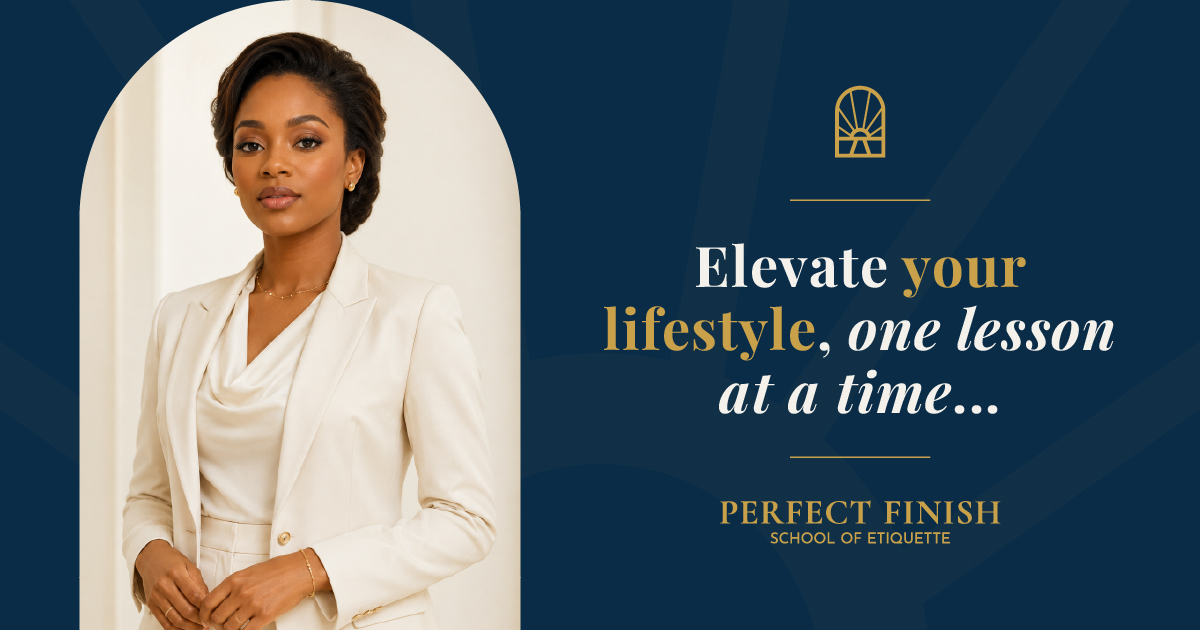
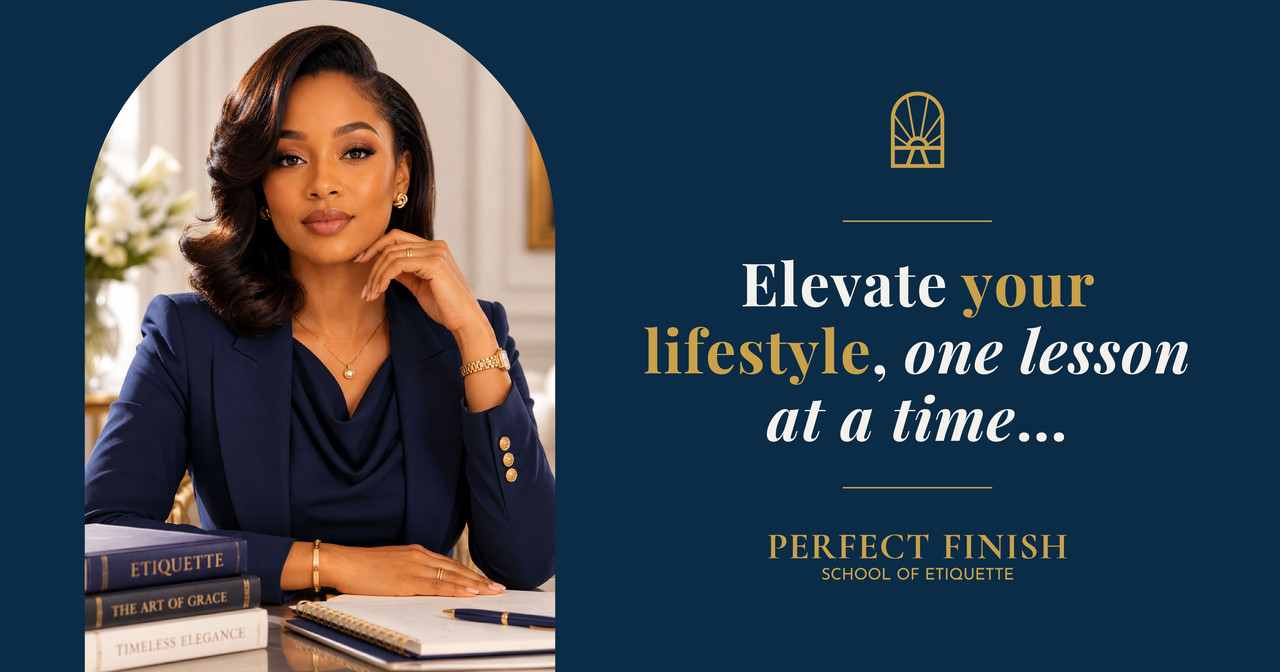
Update landing page to show only Web Developer text and fix text overflow on scroll

diff --git a/public/index.html b/public/index.html
@@ -12,8 +12,8 @@
   <meta property="og:title" content="Perfect Finish | School of Etiquette">
   <meta property="og:description" content="Elevate your lifestyle, one lesson at a time. Perfect Finish School of Etiquette helps individuals cultivate unshakeable confidence, modern elegance, and social intelligence.">
   <meta property="og:image" content="https://perfect-finish-website.vercel.app/assets/og-social.jpg">
-  <meta property="og:image:width" content="1200">
-  <meta property="og:image:height" content="630">
+  <meta property="og:image:width" content="1280">
+  <meta property="og:image:height" content="672">
   <meta property="og:image:alt" content="Perfect Finish School of Etiquette — Elevate your lifestyle, one lesson at a time.">
 
   <!-- Twitter -->
@@ -562,7 +562,7 @@
   <footer class="footer">
     <div class="footer-inner">
       <div class="footer-brand">
-        <img src="assets/Logo combination.svg" alt="Perfect Finish School of Etiquette" class="footer-logo">
+        <img src="/assets/Wordmark.svg" alt="Perfect Finish School of Etiquette" class="footer-logo">
         <p class="footer-tagline">The world notices refinement.<br>Invest in yours.</p>
         <div class="footer-socials">
           <a href="#" class="social-link" aria-label="Instagram">
